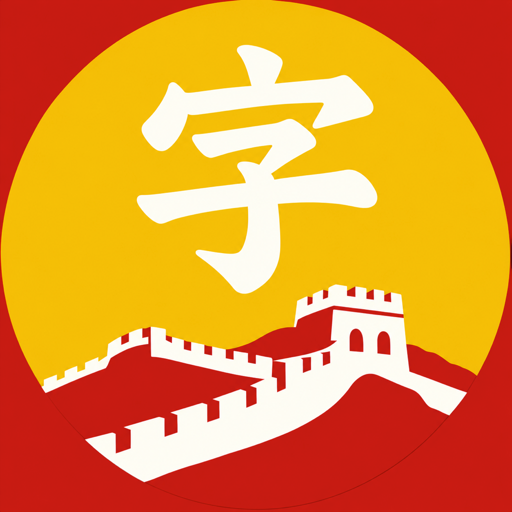
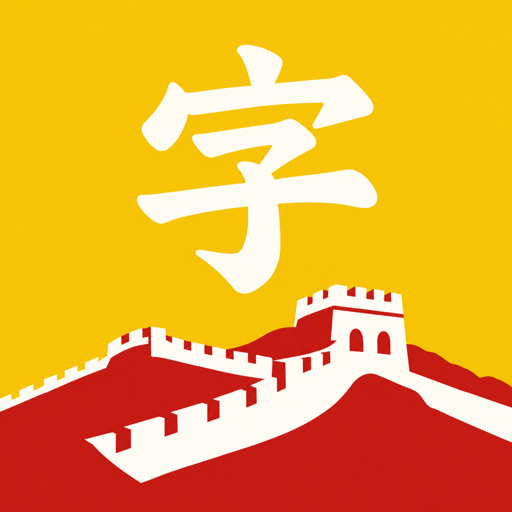
New tangent article on Codex

diff --git a/output/zungzi-icon/README.md b/output/zungzi-icon/README.md
@@ -1,0 +1,11 @@
+# Zungzi icon correction
+
+- `zungzi-icon-1024.png`: opaque 1024 × 1024 PNG for the app icon catalog. Let the operating system apply the icon mask.
+- `zungzi-icon-before.png`: previous 512 × 512 website asset, kept for comparison.
+- Website asset: `public/zungzi-icon.png`, resized to 512 × 512.
+
+Edited with the built-in image generation tool on October 31, 2026. The app repository has not been modified. The edit extends the background to the square edges and removes the baked-in circular seam. As a generative edit, minor differences from the original drawing are possible.
+
+## Final prompt
+
+Use case: precise-object-edit. Edit target: supplied original Zungzi app icon. Produce a corrected 1024x1024 opaque square app icon master. Fix ONLY the background edge defect: the yellow circle is slightly off-center and leaves a thin red/dark outline when circularly masked. Make the golden-yellow background FULL BLEED across the square behind the cream Chinese character and Great Wall: extend the existing golden-yellow color to the upper and side corners, eliminating the artificial circular yellow/red boundary. Also remove the faint dark circular seam over the lower red area. The operating system will supply the circular icon mask, so DO NOT bake a circle, outer ring, border, rounded corners, shadow, or transparency into this square master. Keep EXACTLY the same cream 字 character, brush stroke shapes, size, placement, and the same Great Wall illustration, red hills, red foreground, wall shapes, crenellations, windows, colors, and composition. Do not redesign, recenter, simplify, redraw text, or add anything. Only eliminate the circular perimeter artifact by extending the corresponding local background colors all the way to the square's edges. Crisp clean existing graphic style.
